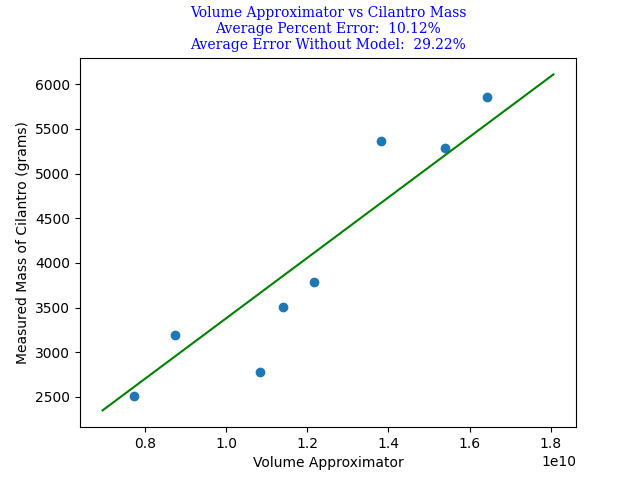
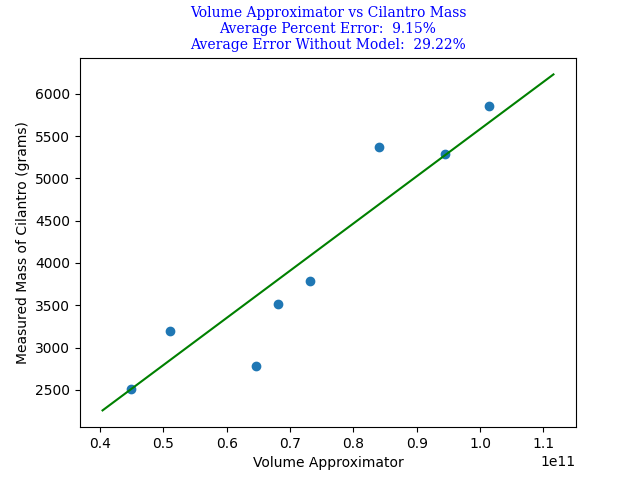
improved model parameters

diff --git a/data_analysis/analyze.py b/data_analysis/analyze.py
@@ -145,7 +145,7 @@ def estimate_volume(pc_dir) -> float:
 
     # We will assume the density of the cilantro is not linear with height, so
     # We apply a density exponent to correct for this
-    density_exponent = 3.5
+    density_exponent = 3.8
     volume_approximator = average_height ** density_exponent
 
     visual = False
